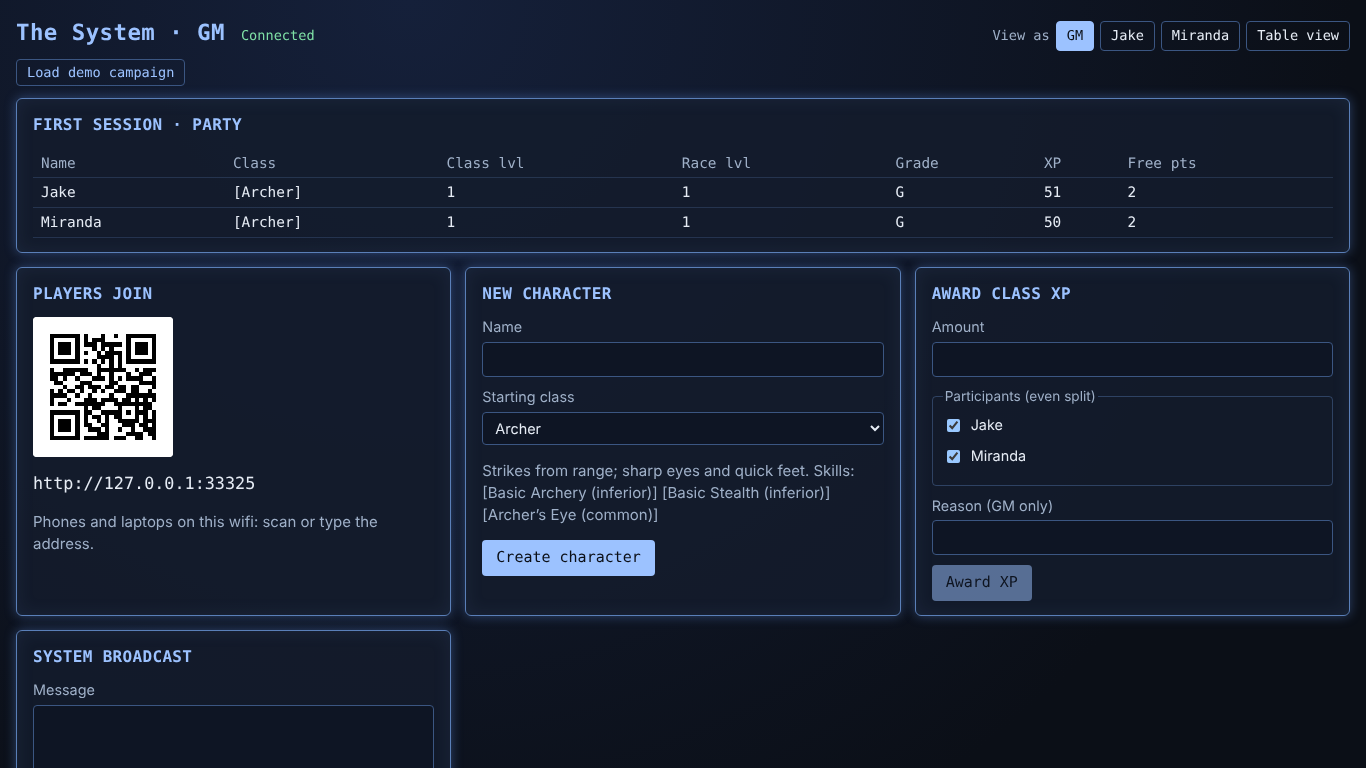
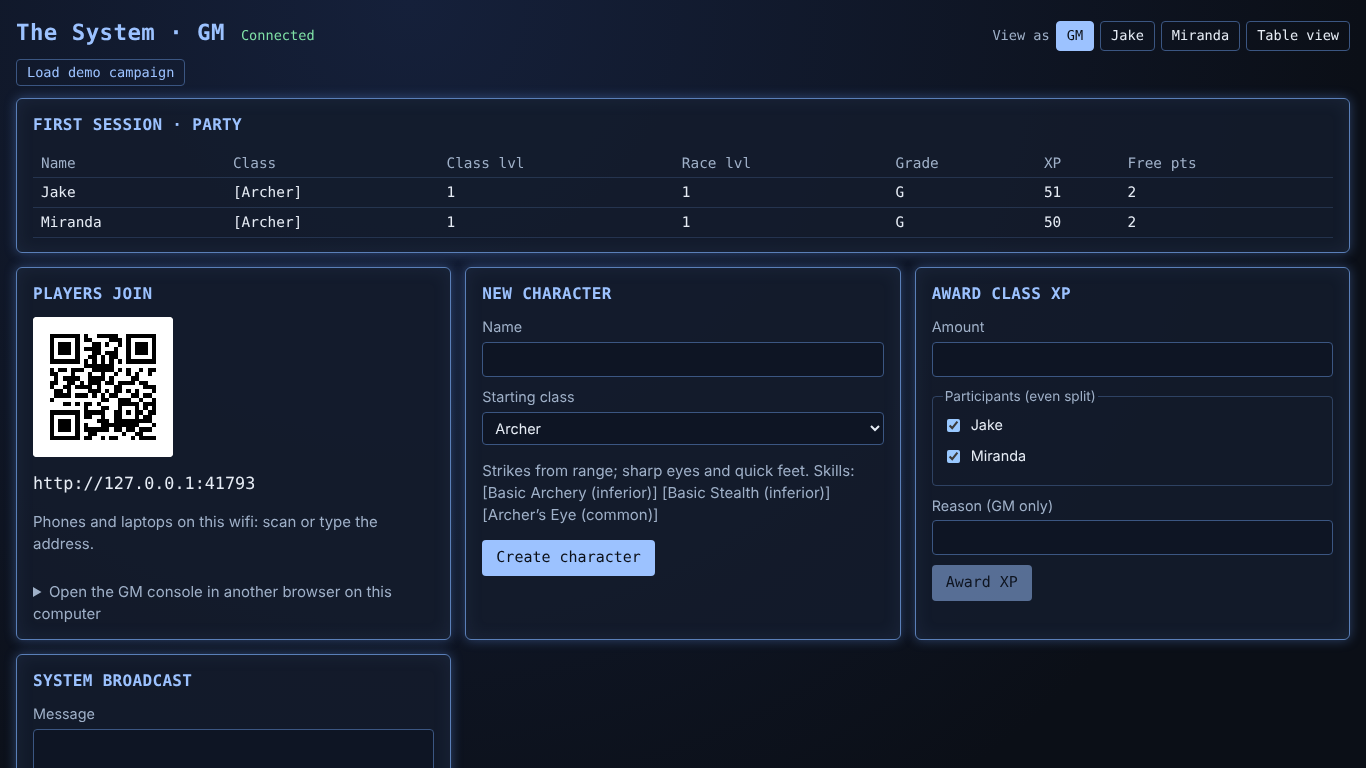
fix(MS.A): address review round 1 (GM link for another browser on the host; the desktop app never prints its key)
Claude-Session: https://claude.ai/code/session_01HC1U4gU2u34xqtPob45x46

diff --git a/apps/web/src/gm/JoinPanel.tsx b/apps/web/src/gm/JoinPanel.tsx
@@ -60,6 +60,45 @@ export function JoinPanel({ gmKey }: { gmKey: string }) {
           </div>
         </div>
       )}
+      <GmLink gmKey={gmKey} />
     </section>
+  );
+}
+
+/**
+ * The GM console's own link for another browser on this computer (MS.A).
+ * The desktop app never prints its key, so this is how Luke opens the console
+ * in Chrome or Safari next to the app window. Shown only on the GM screen,
+ * folded away, with a reminder that it unlocks the console.
+ */
+export function GmLink({ gmKey }: { gmKey: string }) {
+  const [copied, setCopied] = useState(false);
+  const link = `${window.location.origin}/gm#key=${encodeURIComponent(gmKey)}`;
+  return (
+    <details className="gm-link">
+      <summary>Open the GM console in another browser on this computer</summary>
+      <p className="muted">
+        This link unlocks the GM console. Keep it on this computer; never send it to players.
+      </p>
+      <div className="gm-link-row">
+        <input
+          readOnly
+          aria-label="GM link"
+          value={link}
+          onFocus={(e) => e.currentTarget.select()}
+        />
+        <button
+          type="button"
+          onClick={() => {
+            navigator.clipboard.writeText(link).then(
+              () => setCopied(true),
+              () => setCopied(false),
+            );
+          }}
+        >
+          {copied ? 'Copied' : 'Copy'}
+        </button>
+      </div>
+    </details>
   );
 }

diff --git a/e2e/MS.A.spec.ts b/e2e/MS.A.spec.ts
@@ -104,7 +104,20 @@ test('a first session on the walking skeleton, through a laptop restart', async 
   await gm.screenshot({ path: path.join(shots, 'gm-table-view-1366x768.png') });
   await bar.getByRole('button', { name: 'GM' }).click();
 
-  // The demo comes and goes without touching the real campaign.
+  // The GM link for another browser on this computer (the desktop app never
+  // prints its key): folded away, and it opens a working console.
+  const gmLink = gm.getByLabel('GM link');
+  await expect(gmLink).toBeHidden();
+  await gm.getByText('Open the GM console in another browser on this computer').click();
+  await expect(gmLink).toHaveValue(`${server.url}/gm#key=${GM_KEY}`);
+  await gm.screenshot({ path: path.join(shots, 'gm-link-1366x768.png') });
+  const second = await browser.newPage({ viewport: { width: 1366, height: 768 } });
+  await second.goto(await gmLink.inputValue());
+  await expect(second.getByTestId('connection')).toHaveText('Connected');
+  await expect(second.getByRole('cell', { name: 'Jake', exact: true })).toBeVisible();
+  await second.close();
+  await expect(phone.getByText(/GM link|GM console/)).toHaveCount(0);
+
   await gm.getByRole('button', { name: 'Load demo campaign' }).click();
   await expect(gm.getByTestId('demo-badge')).toBeVisible();
   await expect(phone.getByRole('alert')).toContainText('switched to another campaign');

diff --git a/apps/web/src/gm/GmScreen.tsx b/apps/web/src/gm/GmScreen.tsx
@@ -40,8 +40,9 @@ export function GmScreen() {
         <section className="window" role="alert">
           <h2>GM key needed</h2>
           <p>
-            Open the GM console from the desktop app, or use the GM link printed in the server
-            terminal (it ends in <code>#key=…</code>).
+            Open the GM console from the desktop app (its “Players join” box has a GM link for other
+            browsers on this computer), or use the GM link printed in the server terminal (it ends
+            in <code>#key=…</code>).
           </p>
         </section>
       </main>

diff --git a/apps/web/src/styles.css b/apps/web/src/styles.css
@@ -507,3 +507,20 @@ a {
   margin: 0 0 6px;
   word-break: break-all;
 }
+/* GM link for another browser on the host (MS.A). */
+.gm-link {
+  margin-top: 12px;
+}
+.gm-link summary {
+  cursor: pointer;
+  color: var(--muted);
+}
+.gm-link-row {
+  display: flex;
+  gap: 8px;
+}
+.gm-link-row input {
+  flex: 1;
+  min-width: 0;
+  font-family: var(--mono);
+}
